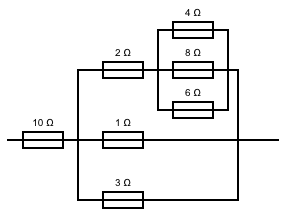
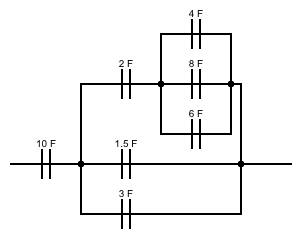
capacitor example

Changed region(s): [[0.0279, 0.0275, 0.9756, 0.9633]]

diff --git a/index.md b/index.md
@@ -46,7 +46,7 @@ Diagram the parallel/series\* circuit of resistors or capacitors below as a comm
                     [6]
                 ]
             ], 
-            [1], 
+            [1.5], 
             [3]
         ]
 
